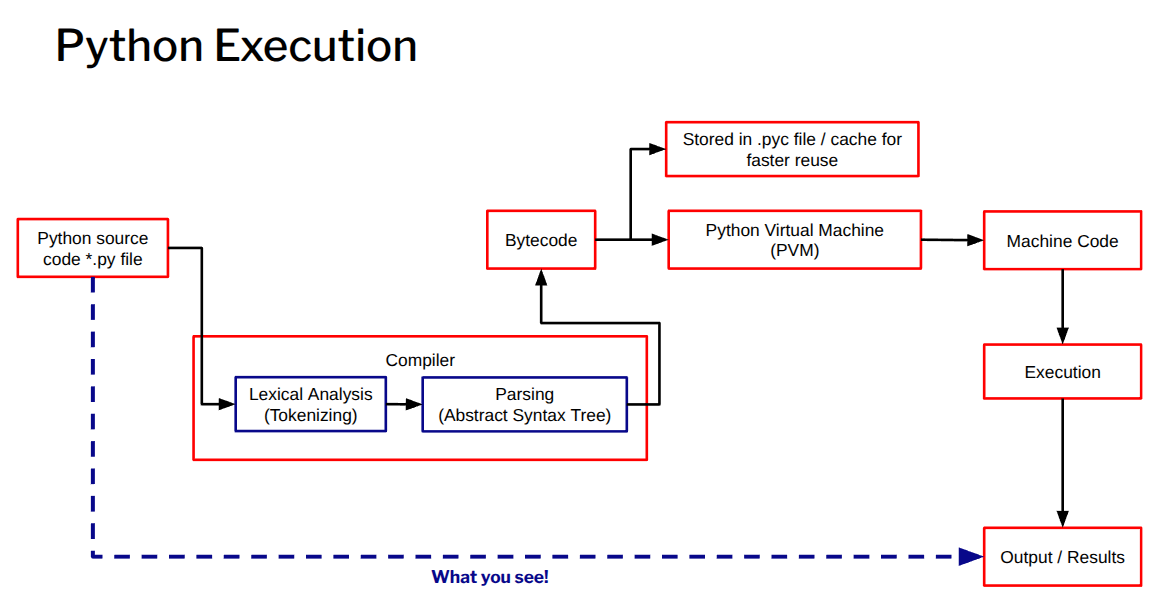
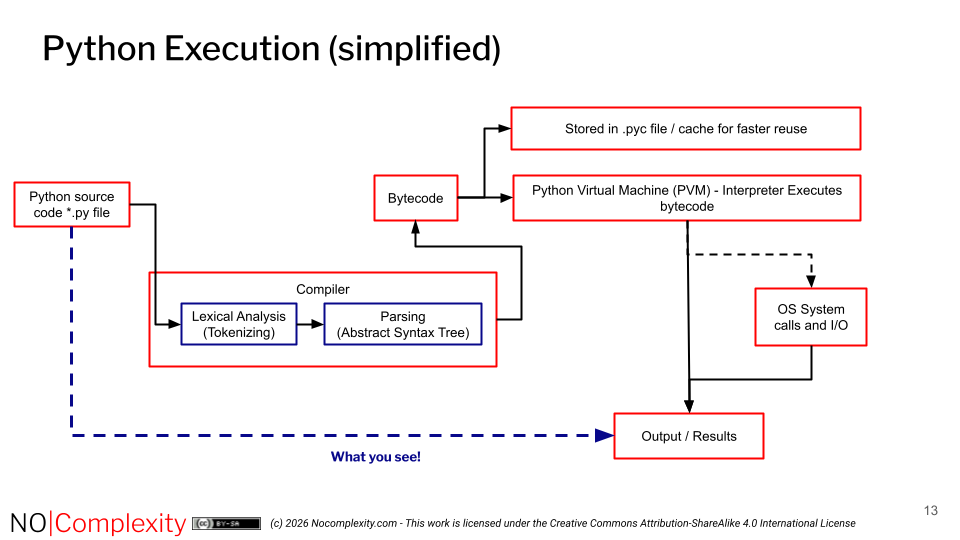
update

diff --git a/fundamentals/executionmodel.md b/fundamentals/executionmodel.md
@@ -20,19 +20,34 @@ While Python is an interpreted language, it involves a compilation step where so
 
 Detailed Execution Steps:
 
-1. **Source Code**: Python code is a file with a `.py` extension.
+**Detailed Execution Steps**
+
+1. **Source Code**  
+   Python programs begin as human-readable `.py` files containing the source code written by the developer.
 
 +++
 
-2. **Compilation to Bytecode**: When the program is run, the Python Compiler first translates the source code into an intermediate format called bytecode. During this phase, it also checks for syntax errors. This bytecode is a set of instructions tailored for the Python Virtual Machine. This bytecode is a platform-independent representation that is not specific to any operating system or hardware. The compiled bytecode is then stored in a .pyc file. For faster loading in future runs, the bytecode is saved as a `.pyc` file in a `__pycache__` directory. If a script is run directly, e.g. python `myscript.py`, Python compiles it to bytecode in memory only. After execution no bytecode is saved. So `.pyc` files are only created when a file is imported and when chasing is enabled (which is by default).
+2. **Compilation to Bytecode**  
+   When the program runs, the Python compiler performs lexical analysis (tokenizing) and parsing to build an Abstract Syntax Tree (AST). It then generates platform-independent bytecode — a set of intermediate instructions designed for the Python Virtual Machine. Syntax errors are detected during this phase.  
+   Bytecode is cached in `.pyc` files inside a `__pycache__` directory for faster loading on subsequent runs (primarily for imported modules). When a script is executed directly (e.g., `python myscript.py`), the bytecode is normally compiled and kept only in memory; no `.pyc` file is written unless the module is imported and caching is enabled (the default).
+
 
 +++
 
-3. **Execution by the Python Virtual Machine (PVM)**: The bytecode is then passed to the Python Virtual Machine (PVM), which acts as an interpreter. The PVM reads the bytecode instructions and translates them into machine-specific (binary) code that the computer's CPU can understand and execute.
+
+
+3. **Execution by the Python Virtual Machine (PVM)**  
+   The bytecode is handed to the Python Virtual Machine (the interpreter). The PVM reads and executes the bytecode instructions one by one. During execution it may issue operating-system system calls and perform I/O operations.
+
 
 +++
 
-4. **Execution and Output**: The computer's CPU executes the machine code instructions, interacts with the hardware (memory, I/O devices, etc.), and produces the final results or output of the program.
+
+4. **Output / Results**  
+   The final results of the program are produced and made visible to the user. The intermediate stages (compilation, bytecode, and PVM execution) remain hidden — the developer and user primarily see only the original source code and the eventual output.
+
+
++++
 
 
 This flow ensures that Python is platform-independent at the bytecode level, as any system with a compatible PVM can run the same bytecode.
